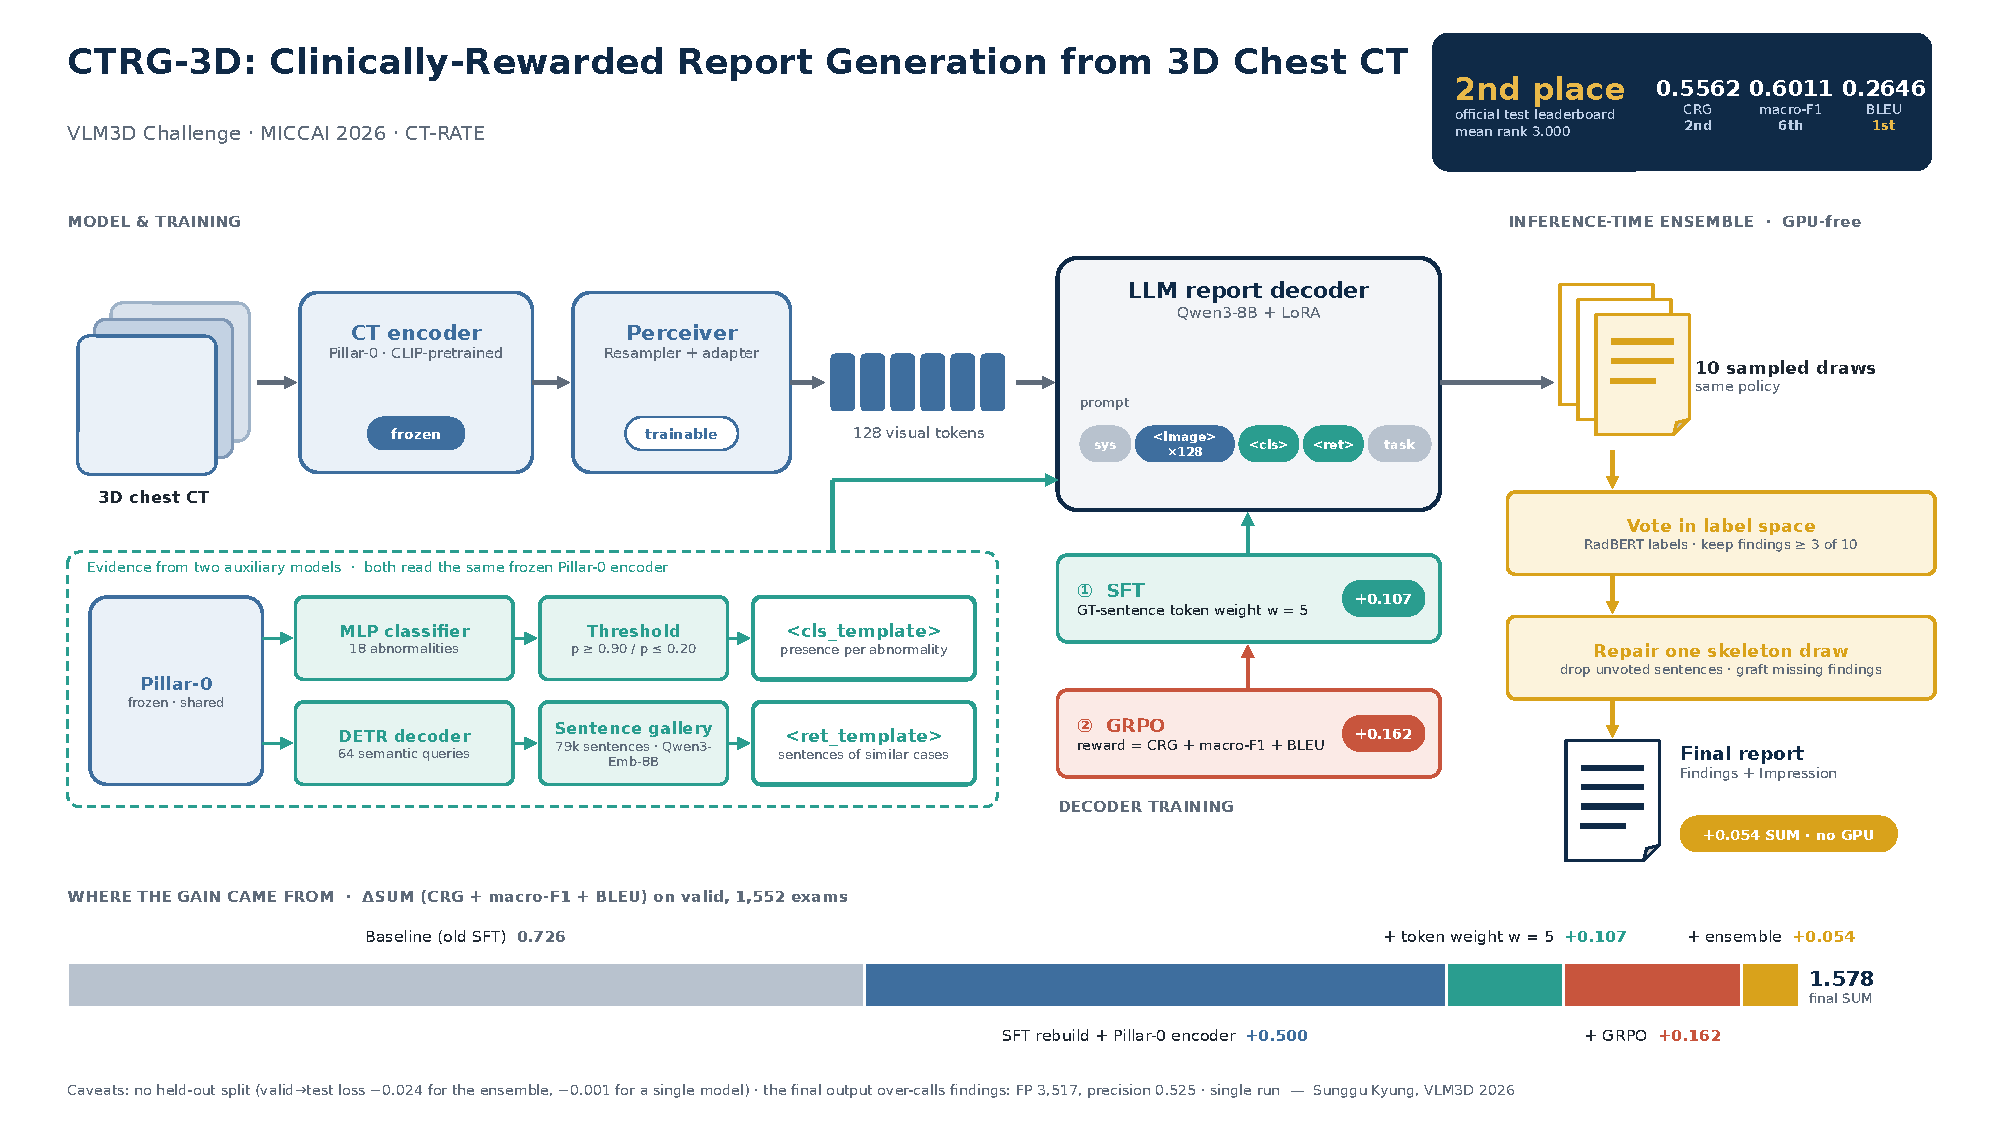
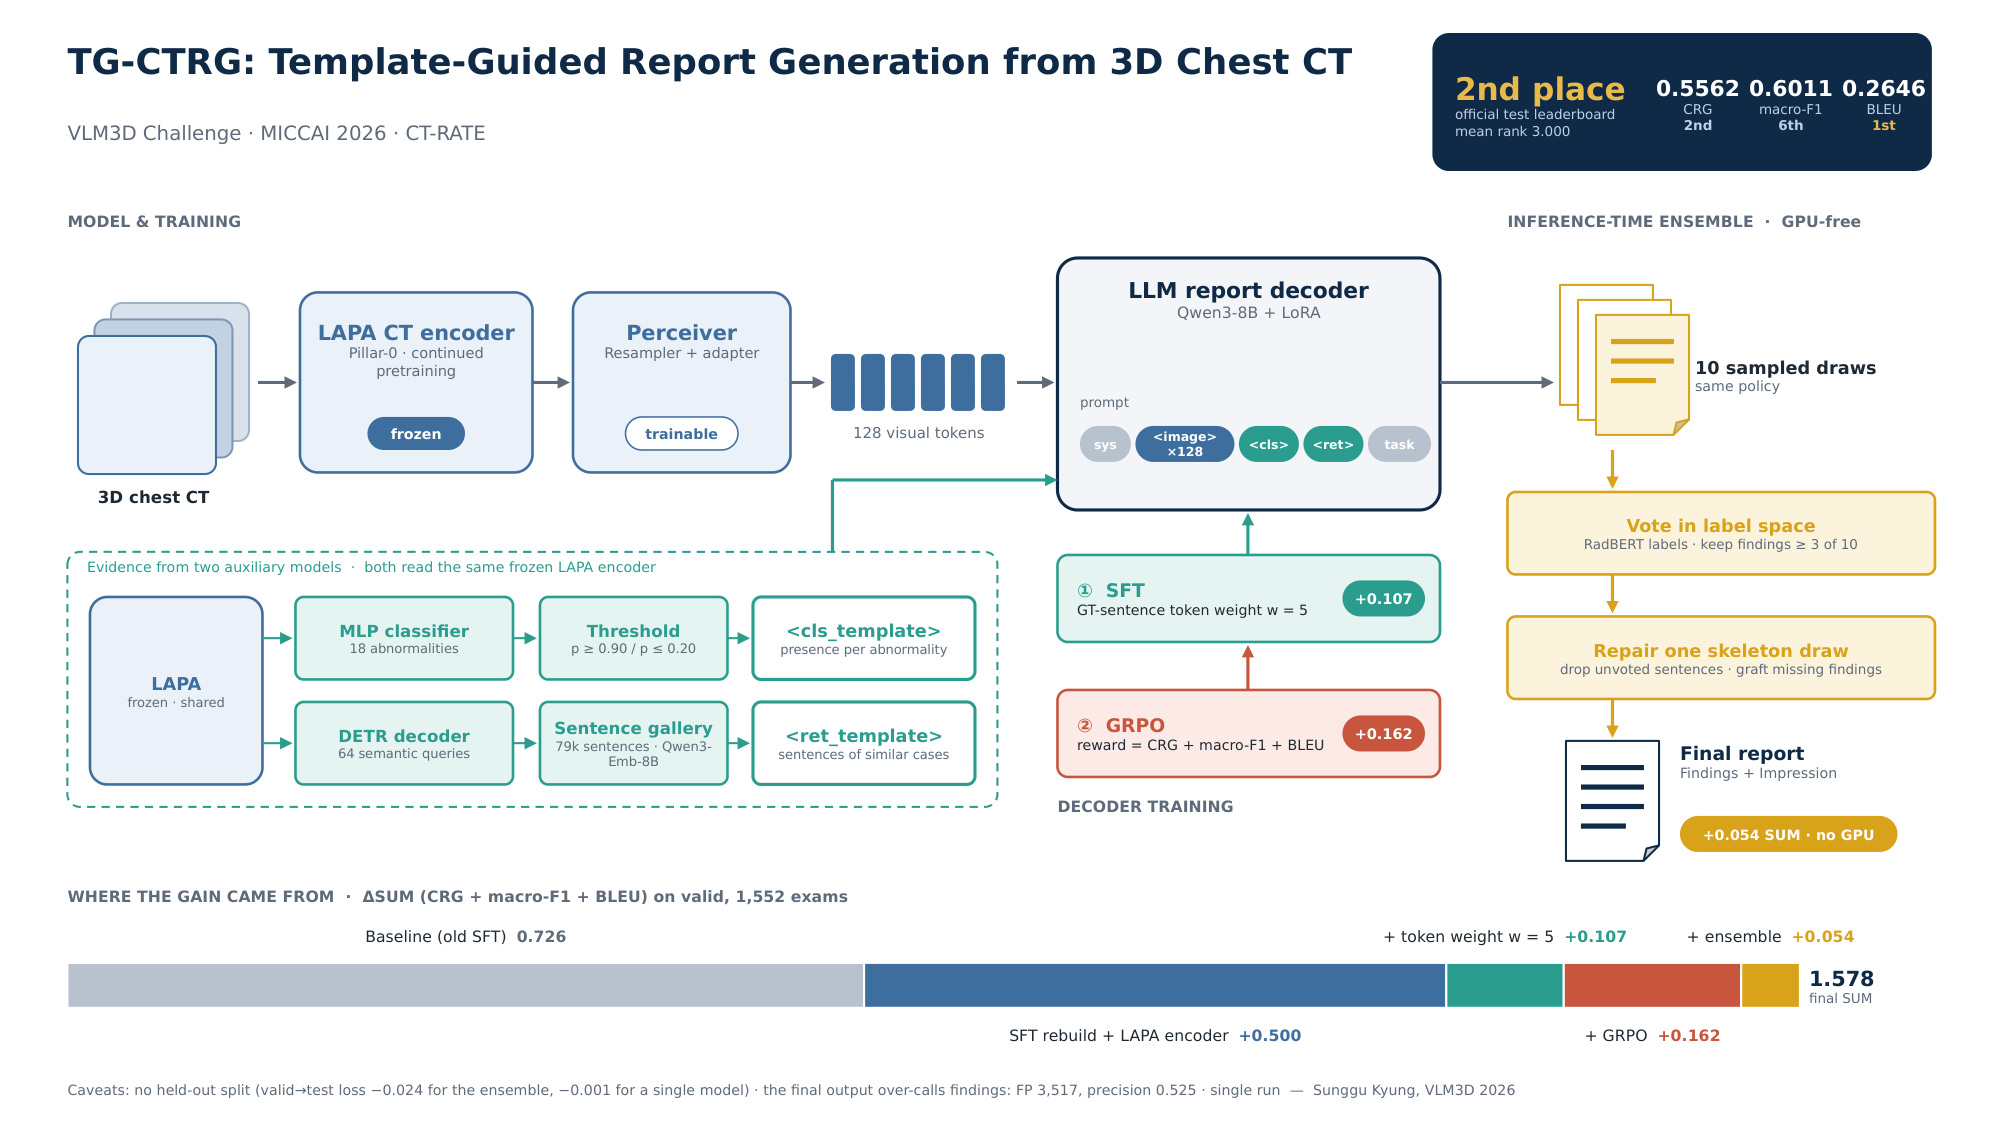
Link released weights on Hugging Face; rename figure to TG-CTRG
- README: weights hosted at https://huggingface.co/babbu3682/TG-CTRG, 8 LoRA adapters
- assets/pipeline.png: TG-CTRG / LAPA labels
- scripts/hf_*_weights.sh: use the `hf` CLI (HF_CLI override)

diff --git a/README.md b/README.md
@@ -30,11 +30,11 @@ Validation split (1,552 studies, official scorer):
 
 ## Pretrained weights
 
-All checkpoints are hosted on Hugging Face: **`<HF_USER>/TG-CTRG`** (≈21 GB; Qwen3-8B is fetched separately).
+All checkpoints are hosted on Hugging Face: **[babbu3682/TG-CTRG](https://huggingface.co/babbu3682/TG-CTRG)** (≈21 GB; Qwen3-8B is fetched separately).
 
 ```bash
 pip install -U "huggingface_hub[cli]"
-bash scripts/hf_download_weights.sh <HF_USER>/TG-CTRG docker/weights
+bash scripts/hf_download_weights.sh babbu3682/TG-CTRG docker/weights
 ```
 
 | file | component |
@@ -43,7 +43,7 @@ bash scripts/hf_download_weights.sh <HF_USER>/TG-CTRG docker/weights
 | `cls_finetune_head.pt`, `abn_thresholds_f1max_train_lapa.json` | CLS probe (stage 3) |
 | `ret_head.pt`, `gallery_embeddings_lasthidden.pt`, `gallery_sentences.pt` | RET head and gallery (stage 4) |
 | `ctrg3d/model.safetensors` | MLLM after SFT (stage 5) |
-| `lora/*.safetensors` | GRPO LoRA adapters (9 shipped; the ensemble uses 8) (stage 5) |
+| `lora/*.safetensors` | 8 GRPO LoRA adapters, one per ensemble draw slice (stage 5) |
 | `radbert/` | RadBERT labeler from the challenge evaluation kit |
 
 Qwen3-8B is downloaded separately from its own repository.
